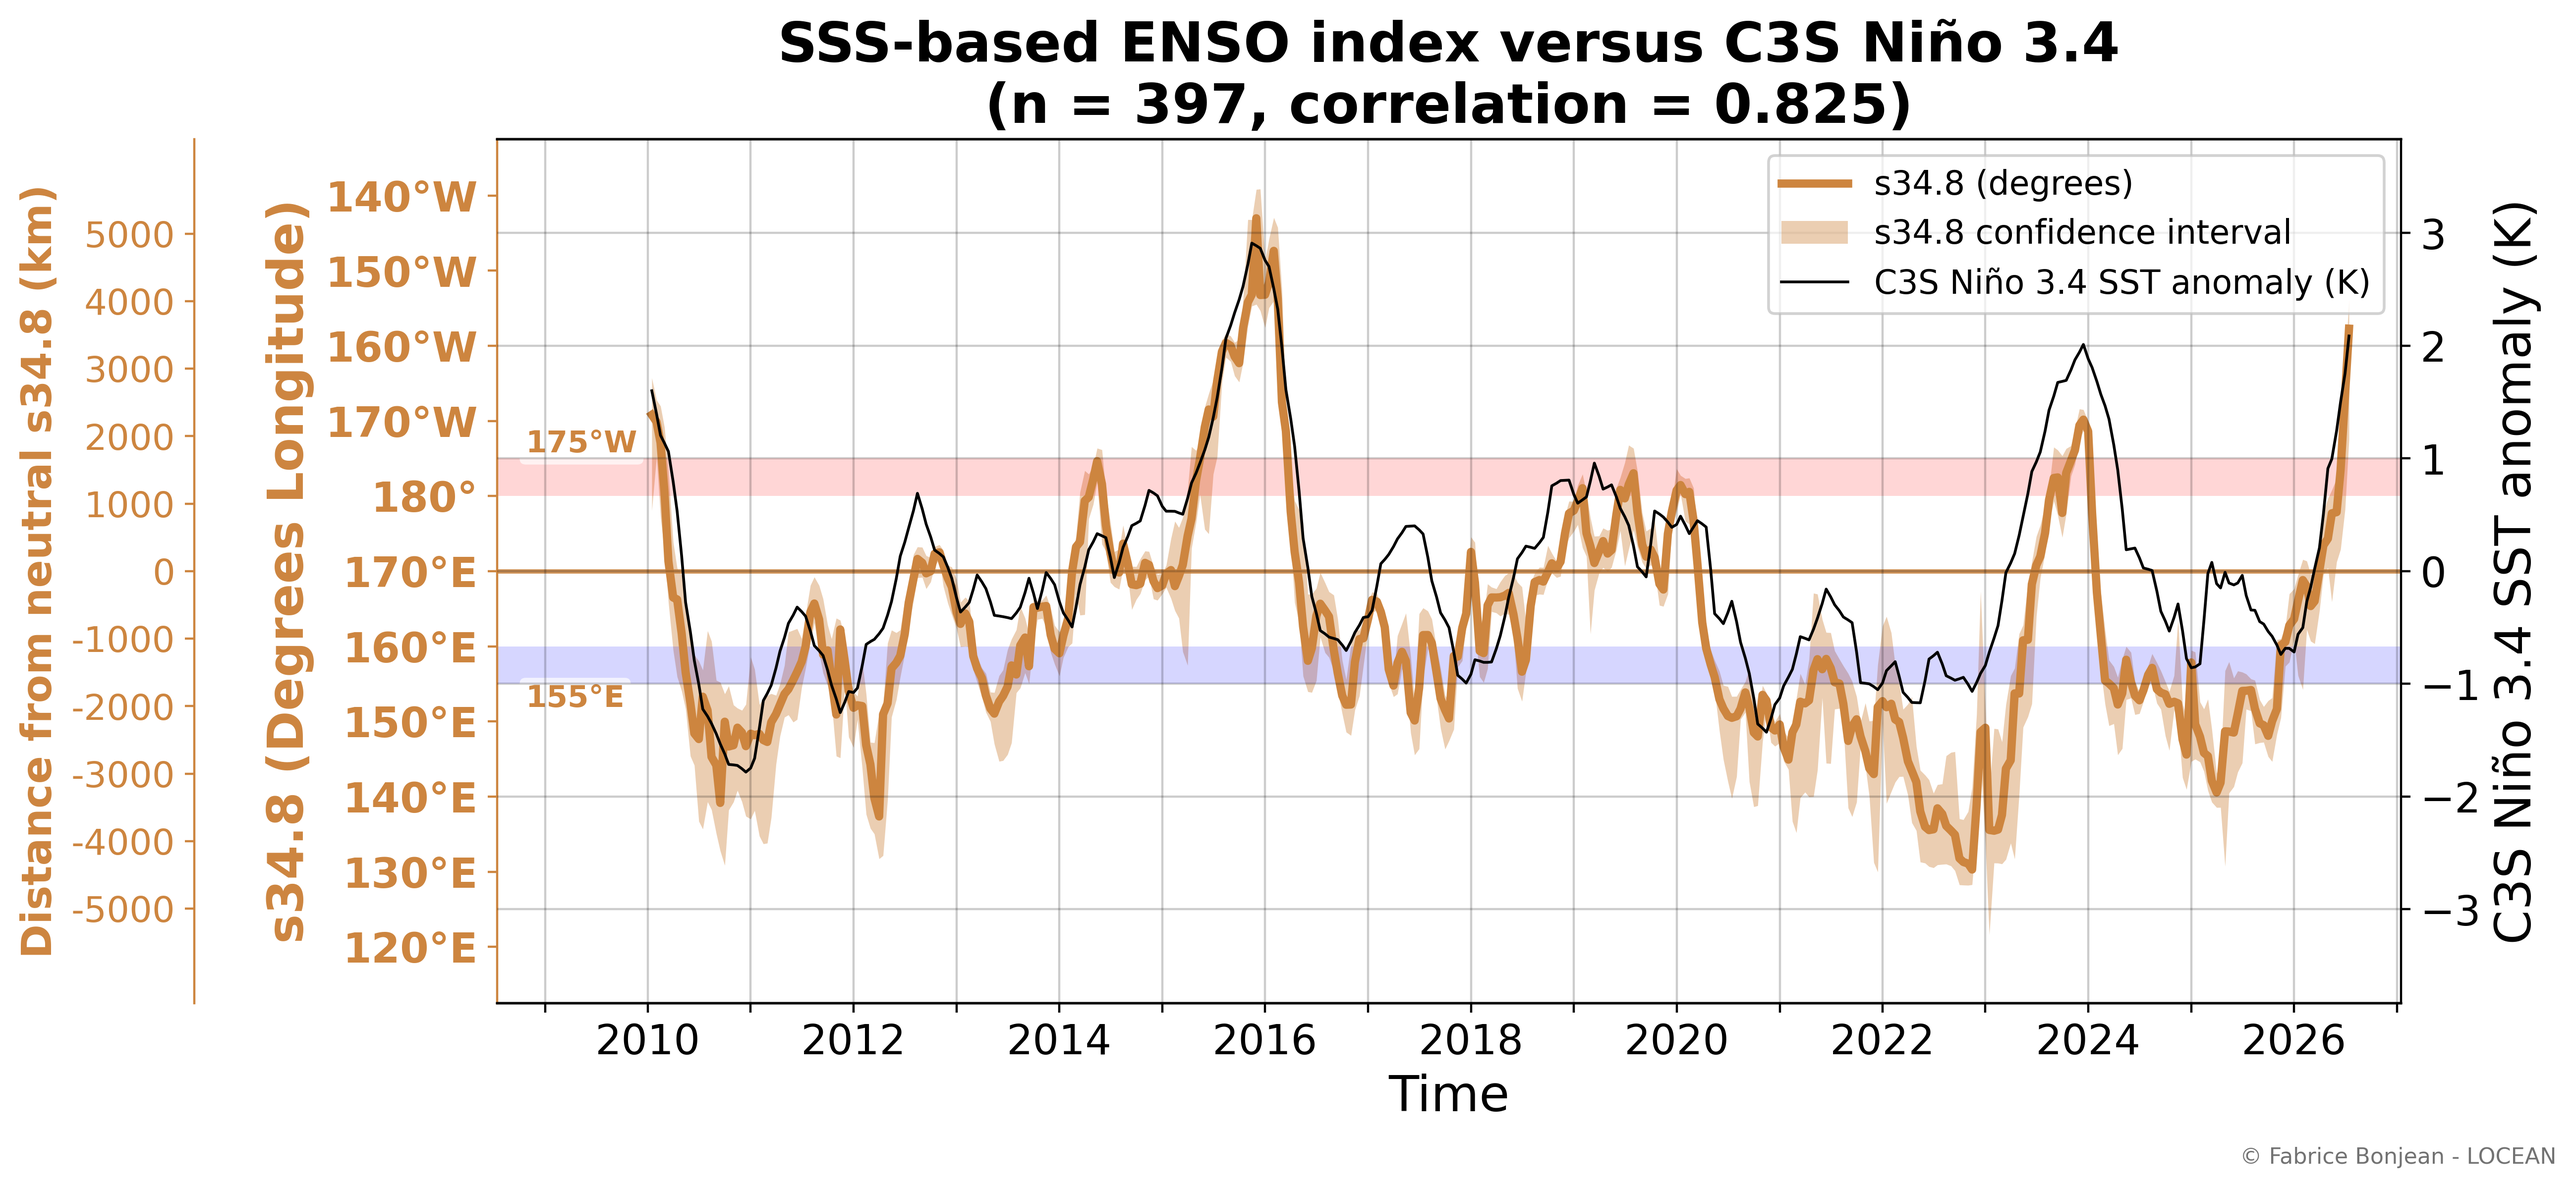
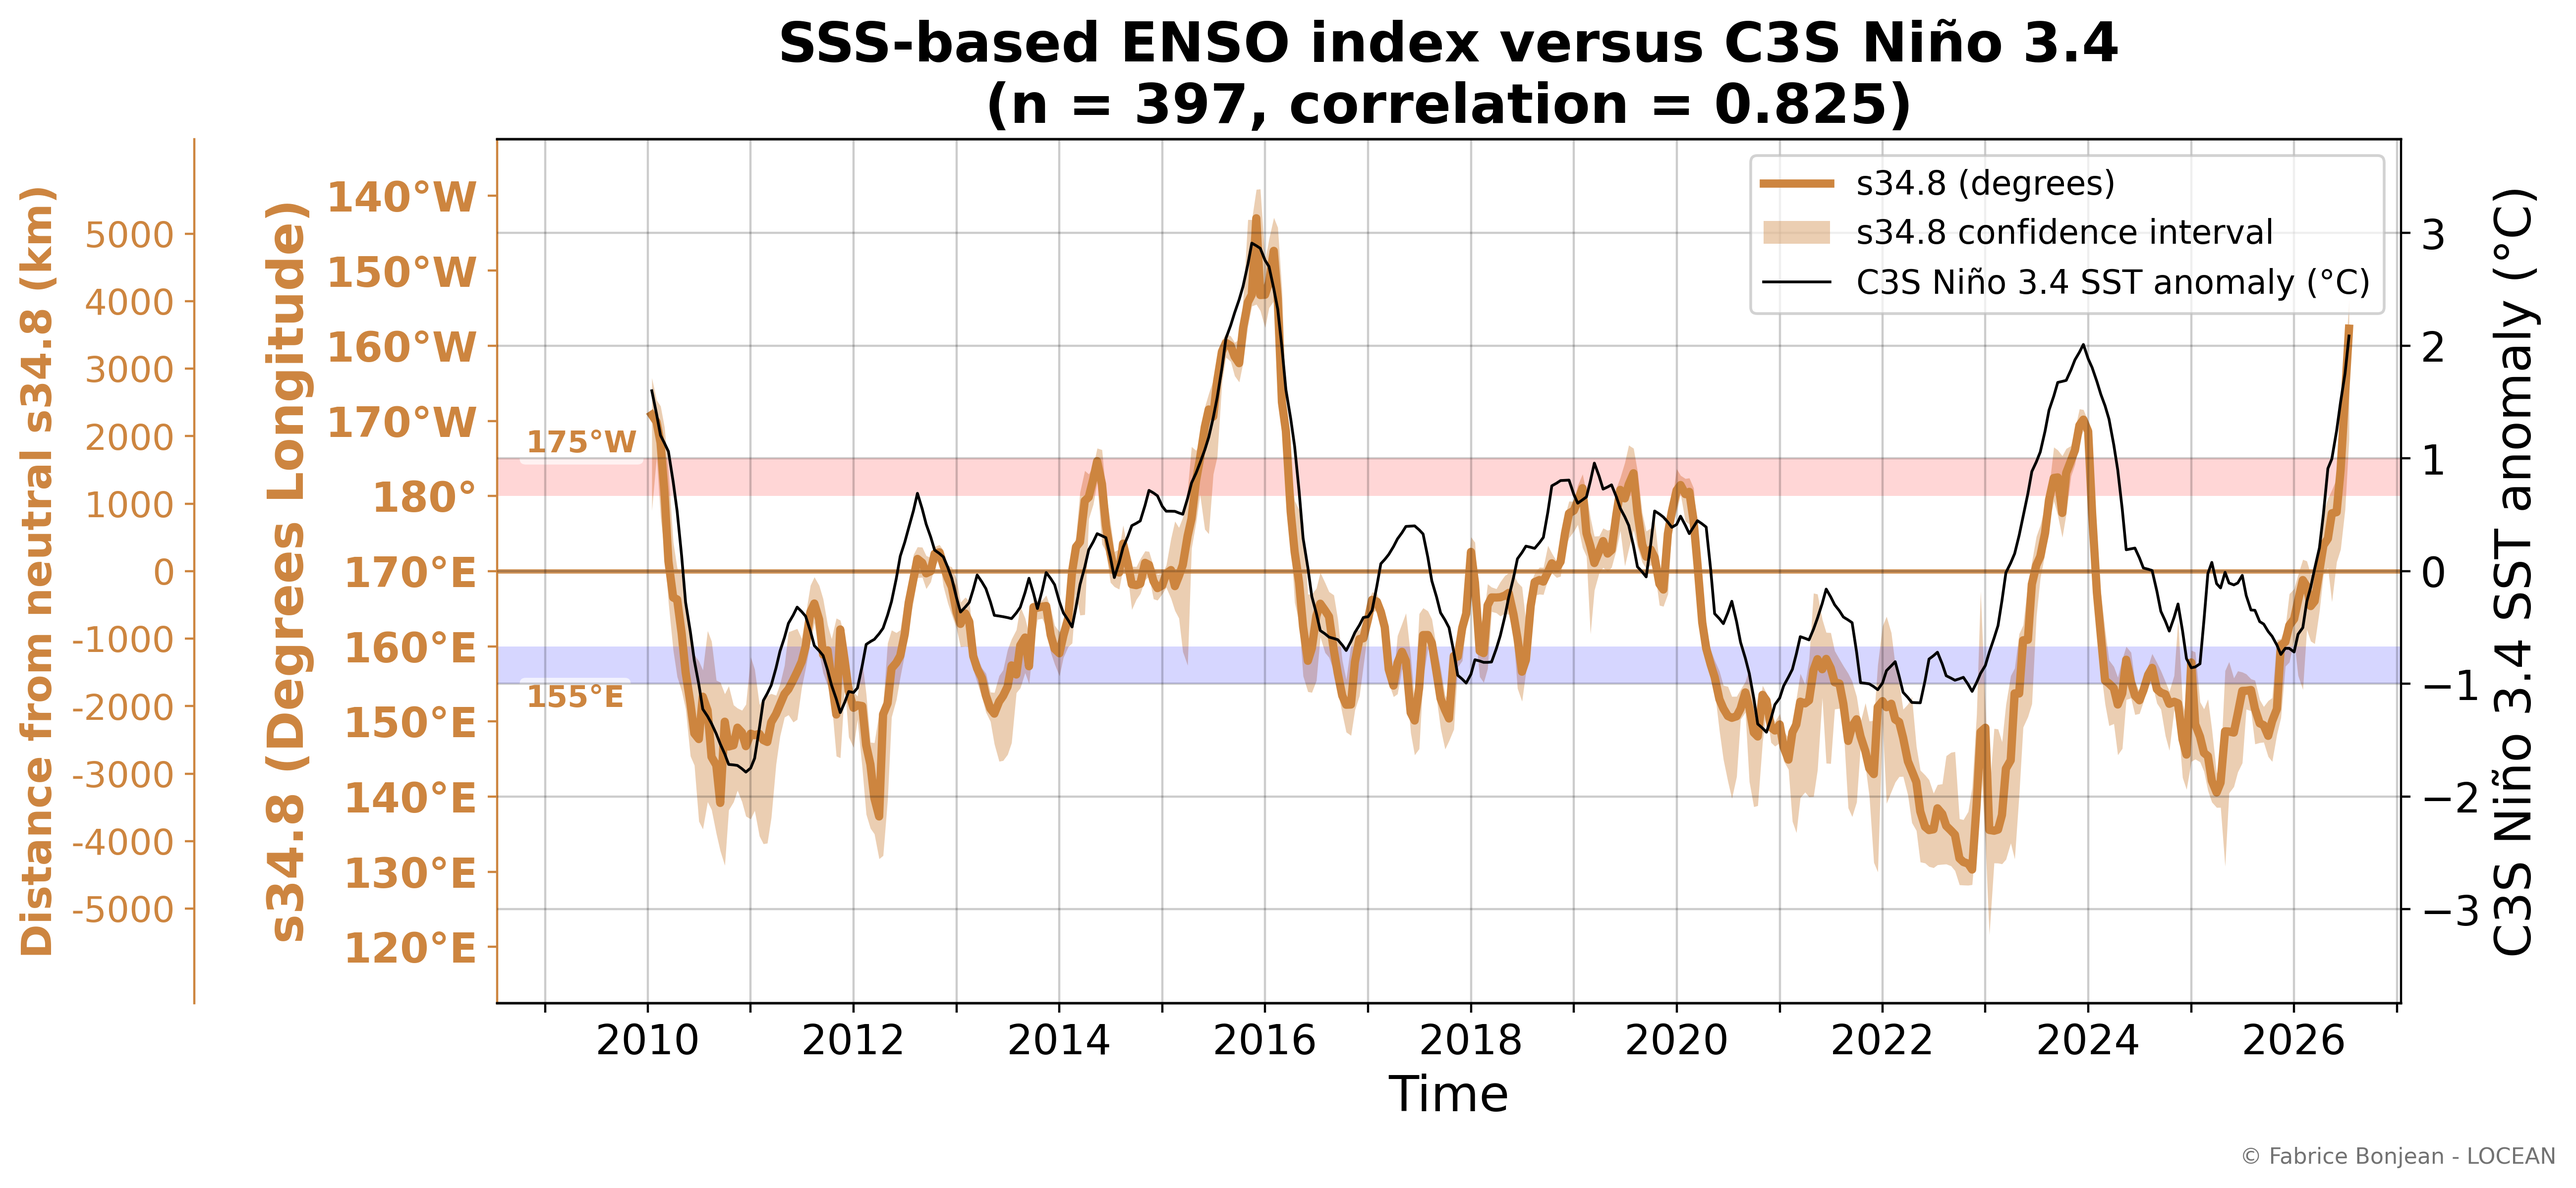
Update C3S Niño 3.4 comparison

Changed region(s): [[0.9663, 0.1543, 0.9975, 0.8023], [0.6858, 0.1234, 0.9352, 0.2469]]

diff --git a/docs/index.html b/docs/index.html
@@ -200,8 +200,8 @@ The SSS-based indicator shows that the eastern edge of the western equatorial Pa
 <section id="dashboard-recent-evolution" class="level1">
 <h1>Dashboard: recent evolution</h1>
 <p>The dashboard below focuses on the most recent three years, ending with the latest available SSS field. The upper panel shows sea surface salinity in the tropical Pacific, with the 34.8-pss isohaline marking the eastern edge of the western equatorial fresh pool. The red circle/ellipse highlights the tracked fresh-pool edge between 2°S and 2°N. The lower panel shows the synchronized evolution of the SSS-based ENSO indicator.</p>
-<video class="dashboard-video" controls="" preload="none" poster="assets/figures/latest/dashboard_sss_enso_poster_latest.png?v=20260928">
-<source src="assets/animations/dashboard_sss_enso_latest.mp4?v=20260928" type="video/mp4">
+<video class="dashboard-video" controls="" preload="none" poster="assets/figures/latest/dashboard_sss_enso_poster_latest.png?v=20260928-2">
+<source src="assets/animations/dashboard_sss_enso_latest.mp4?v=20260928-2" type="video/mp4">
 <p>Your browser does not support the video tag.</p>
 </video>
 <section id="how-does-the-current-event-compare-with-previous-el-niños" class="level2">
@@ -209,7 +209,7 @@ The SSS-based indicator shows that the eastern edge of the western equatorial Pa
 <p>The curves below track the same 34.8-pss fresh-pool boundary (S34.8), aligned on a common event-relative seasonal cycle to compare the timing, speed and maximum observed eastward extent of its displacement.</p>
 <div class="quarto-figure quarto-figure-center">
 <figure class="figure">
-<p><img src="assets/animations/s34p8_el_nino_event_trajectories_latest.gif?v=20260928" class="img-fluid figure-img" alt="Longitude of the S34.8 fresh-pool boundary across four El Niño events, with a shared seasonal cycle progressing upward and partial records for 2009–10 and 2026."></p>
+<p><img src="assets/animations/s34p8_el_nino_event_trajectories_latest.gif?v=20260928-2" class="img-fluid figure-img" alt="Longitude of the S34.8 fresh-pool boundary across four El Niño events, with a shared seasonal cycle progressing upward and partial records for 2009–10 and 2026."></p>
 <figcaption>Fresh-pool boundary trajectories during the 2009–10, 2015–16 and 2023–24 El Niños and the ongoing 2026 event. The 2009–10 and 2026 trajectories are truncated where observations are unavailable or not yet available.</figcaption>
 </figure>
 </div>
@@ -228,8 +228,8 @@ The SSS-based indicator shows that the eastern edge of the western equatorial Pa
 <li>the SSS-based ENSO indicator evolving through time.</li>
 </ul>
 <p>This combined view shows how the current evolution compares with previous El Niño and La Niña episodes.</p>
-<video class="highlight-video" controls="" preload="none" poster="assets/figures/latest/combined_sss_enso_poster_latest.png?v=20260928">
-<source src="assets/animations/combined_sss_enso_latest.mp4?v=20260928" type="video/mp4">
+<video class="highlight-video" controls="" preload="none" poster="assets/figures/latest/combined_sss_enso_poster_latest.png?v=20260928-2">
+<source src="assets/animations/combined_sss_enso_latest.mp4?v=20260928-2" type="video/mp4">
 <p>Your browser does not support the video tag. </p>
 </video></section>
 <section id="comparison-with-established-enso-indicators" class="level1">
@@ -240,7 +240,7 @@ The SSS-based indicator shows that the eastern edge of the western equatorial Pa
 <p>MEI.v2 is a multivariate ENSO index combining oceanic and atmospheric information. It provides a broad reference for coupled ENSO variability.</p>
 <div class="quarto-figure quarto-figure-center">
 <figure class="figure">
-<p><img src="assets/figures/latest/sss_meiv2_s34-8_latest.png?v=20260928" class="img-fluid figure-img" alt="Comparison between the SSS-based ENSO indicator and MEI.v2."></p>
+<p><img src="assets/figures/latest/sss_meiv2_s34-8_latest.png?v=20260928-2" class="img-fluid figure-img" alt="Comparison between the SSS-based ENSO indicator and MEI.v2."></p>
 <figcaption>Comparison between the SSS-based indicator and MEI.v2.</figcaption>
 </figure>
 </div>
@@ -250,18 +250,18 @@ The SSS-based indicator shows that the eastern edge of the western equatorial Pa
 <p>Niño 3.4 is a classical SST-based ENSO index in the central-eastern equatorial Pacific.</p>
 <div class="quarto-figure quarto-figure-center">
 <figure class="figure">
-<p><img src="assets/figures/latest/sss_nino34_s34-8_latest.png?v=20260928" class="img-fluid figure-img" alt="Comparison between the SSS-based ENSO indicator and Niño 3.4."></p>
+<p><img src="assets/figures/latest/sss_nino34_s34-8_latest.png?v=20260928-2" class="img-fluid figure-img" alt="Comparison between the SSS-based ENSO indicator and Niño 3.4."></p>
 <figcaption>Comparison between the SSS-based indicator and Niño 3.4.</figcaption>
 </figure>
 </div>
 <p><strong>Data availability note:</strong> the NOAA Niño 3.4 series currently available here extends through 1 July 2026, so this comparison ends earlier than the MEI.v2 and RONI comparisons.</p>
 <section id="c3s-niño-3.4" class="level3">
 <h3 class="anchored" data-anchor-id="c3s-niño-3.4">C3S Niño 3.4</h3>
-<p>This comparison uses a Niño 3.4 SST index derived directly from the <strong>Copernicus Climate Change Service (C3S) SST anomaly dataset</strong>, using a fixed 1991–2020 climatology.</p>
-<p>The C3S-derived index provides a complementary SST-based reference for the SSS-based S34.8 indicator. The comparison uses exact date matching, without interpolation or temporal shifting.</p>
+<p>This comparison uses a Niño 3.4 SST index derived directly from the <a href="https://cds.climate.copernicus.eu/datasets/satellite-ist-sst-global?tab=overview"><strong>Copernicus Climate Change Service (C3S) SST anomaly dataset</strong></a>, using a fixed 1991–2020 climatology.</p>
+<p>The C3S-derived index provides a complementary SST-based reference for the SSS-based S34.8 indicator.</p>
 <div class="quarto-figure quarto-figure-center">
 <figure class="figure">
-<p><img src="assets/figures/latest/sss_c3s_nino34_1st15th_s34-8_latest.png?v=20260928" class="img-fluid figure-img" alt="Comparison between the SSS-based S34.8 ENSO indicator and a Niño 3.4 SST index derived from the Copernicus Climate Change Service SST anomaly dataset."></p>
+<p><img src="assets/figures/latest/sss_c3s_nino34_1st15th_s34-8_latest.png?v=20260928-2" class="img-fluid figure-img" alt="Comparison between the SSS-based S34.8 ENSO indicator and a Niño 3.4 SST index derived from the Copernicus Climate Change Service SST anomaly dataset."></p>
 <figcaption>Comparison between the SSS-based indicator and the C3S-derived Niño 3.4 SST index.</figcaption>
 </figure>
 </div>
@@ -272,7 +272,7 @@ The SSS-based indicator shows that the eastern edge of the western equatorial Pa
 <p>RONI is a relative Niño 3.4 index designed to account for the broader tropical warming background.</p>
 <div class="quarto-figure quarto-figure-center">
 <figure class="figure">
-<p><img src="assets/figures/latest/sss_roni_s34-8_latest.png?v=20260928" class="img-fluid figure-img" alt="Comparison between the SSS-based ENSO indicator and RONI."></p>
+<p><img src="assets/figures/latest/sss_roni_s34-8_latest.png?v=20260928-2" class="img-fluid figure-img" alt="Comparison between the SSS-based ENSO indicator and RONI."></p>
 <figcaption>Comparison between the SSS-based indicator and RONI.</figcaption>
 </figure>
 </div>
@@ -285,7 +285,7 @@ The SSS-based indicator shows that the eastern edge of the western equatorial Pa
 <h2 class="anchored" data-anchor-id="full-period-sss-based-enso-indicator">Full-period SSS-based ENSO indicator</h2>
 <div class="quarto-figure quarto-figure-center">
 <figure class="figure">
-<p><img src="assets/figures/latest/sss_index_latest.png?v=20260928" class="img-fluid figure-img" alt="Latest SSS-based ENSO indicator derived from the longitude of the 34.8 pss isohaline in the equatorial Pacific."></p>
+<p><img src="assets/figures/latest/sss_index_latest.png?v=20260928-2" class="img-fluid figure-img" alt="Latest SSS-based ENSO indicator derived from the longitude of the 34.8 pss isohaline in the equatorial Pacific."></p>
 <figcaption>Latest SSS-based ENSO indicator based on the displacement of the 34.8-pss isohaline.</figcaption>
 </figure>
 </div>
@@ -294,7 +294,7 @@ The SSS-based indicator shows that the eastern edge of the western equatorial Pa
 <h2 class="anchored" data-anchor-id="full-period-hovmöller-view">Full-period Hovmöller view</h2>
 <div class="quarto-figure quarto-figure-center">
 <figure class="figure">
-<p><img src="assets/figures/latest/sss_hovmoller_latest.png?v=20260928" class="img-fluid figure-img" alt="Hovmöller diagram showing equatorial sea surface salinity as a function of longitude and time with the tracked 34.8 pss isohaline."></p>
+<p><img src="assets/figures/latest/sss_hovmoller_latest.png?v=20260928-2" class="img-fluid figure-img" alt="Hovmöller diagram showing equatorial sea surface salinity as a function of longitude and time with the tracked 34.8 pss isohaline."></p>
 <figcaption>Full-period Hovmöller diagram of equatorial sea surface salinity and the tracked 34.8-pss isohaline.</figcaption>
 </figure>
 </div>
@@ -317,6 +317,7 @@ The SSS-based indicator shows that the eastern edge of the western equatorial Pa
 <li>MEI.v2: NOAA Physical Sciences Laboratory, <a href="https://psl.noaa.gov/data/timeseries/month/DS/MEIV2/" class="uri">https://psl.noaa.gov/data/timeseries/month/DS/MEIV2/</a></li>
 <li>Niño 3.4: NOAA Physical Sciences Laboratory / NOAA Climate Prediction Center, <a href="https://psl.noaa.gov/data/timeseries/month/DS/Nino34_CPC/" class="uri">https://psl.noaa.gov/data/timeseries/month/DS/Nino34_CPC/</a></li>
 <li>RONI: NOAA Physical Sciences Laboratory, <a href="https://psl.noaa.gov/data/timeseries/month/DS/RONI/" class="uri">https://psl.noaa.gov/data/timeseries/month/DS/RONI/</a></li>
+<li>C3S SST: <em>Combined sea surface and sea ice surface temperature data derived from satellite observations</em>, <a href="https://cds.climate.copernicus.eu/datasets/satellite-ist-sst-global?tab=overview" class="uri">https://cds.climate.copernicus.eu/datasets/satellite-ist-sst-global?tab=overview</a></li>
 <li>CCI+SSS: ESA Climate Change Initiative Sea Surface Salinity project.</li>
 <li>C3S: Copernicus Climate Change Service.</li>
 <li>C3S seasonal forecasts, <a href="https://climate.copernicus.eu/seasonal-forecasts" class="uri">https://climate.copernicus.eu/seasonal-forecasts</a></li>

diff --git a/docs/methods.html b/docs/methods.html
@@ -188,7 +188,8 @@ Product version: CCI+SSS v6.3 for the CDR period, with CATDS SMOS+SMAP for the c
 </section>
 <section id="comparison-indices" class="level2">
 <h2 class="anchored" data-anchor-id="comparison-indices">Comparison indices</h2>
-<p>The SSS-based index is compared with MEI.v2, Niño 3.4, and RONI. Additional reference indicators may be considered as the analysis develops.</p>
+<p>The SSS-based index is compared with MEI.v2, NOAA Niño 3.4, a C3S-derived Niño 3.4 index, and RONI. Additional reference indicators may be considered as the analysis develops.</p>
+<p>The C3S Niño 3.4 index is derived from SST anomalies in the Niño 3.4 region in the <a href="https://cds.climate.copernicus.eu/datasets/satellite-ist-sst-global?tab=overview">C3S combined sea surface and sea ice surface temperature dataset</a>, using a fixed 1991–2020 climatology.</p>
 </section>
 <section id="uncertainty-and-limitations" class="level2">
 <h2 class="anchored" data-anchor-id="uncertainty-and-limitations">Uncertainty and limitations</h2>
